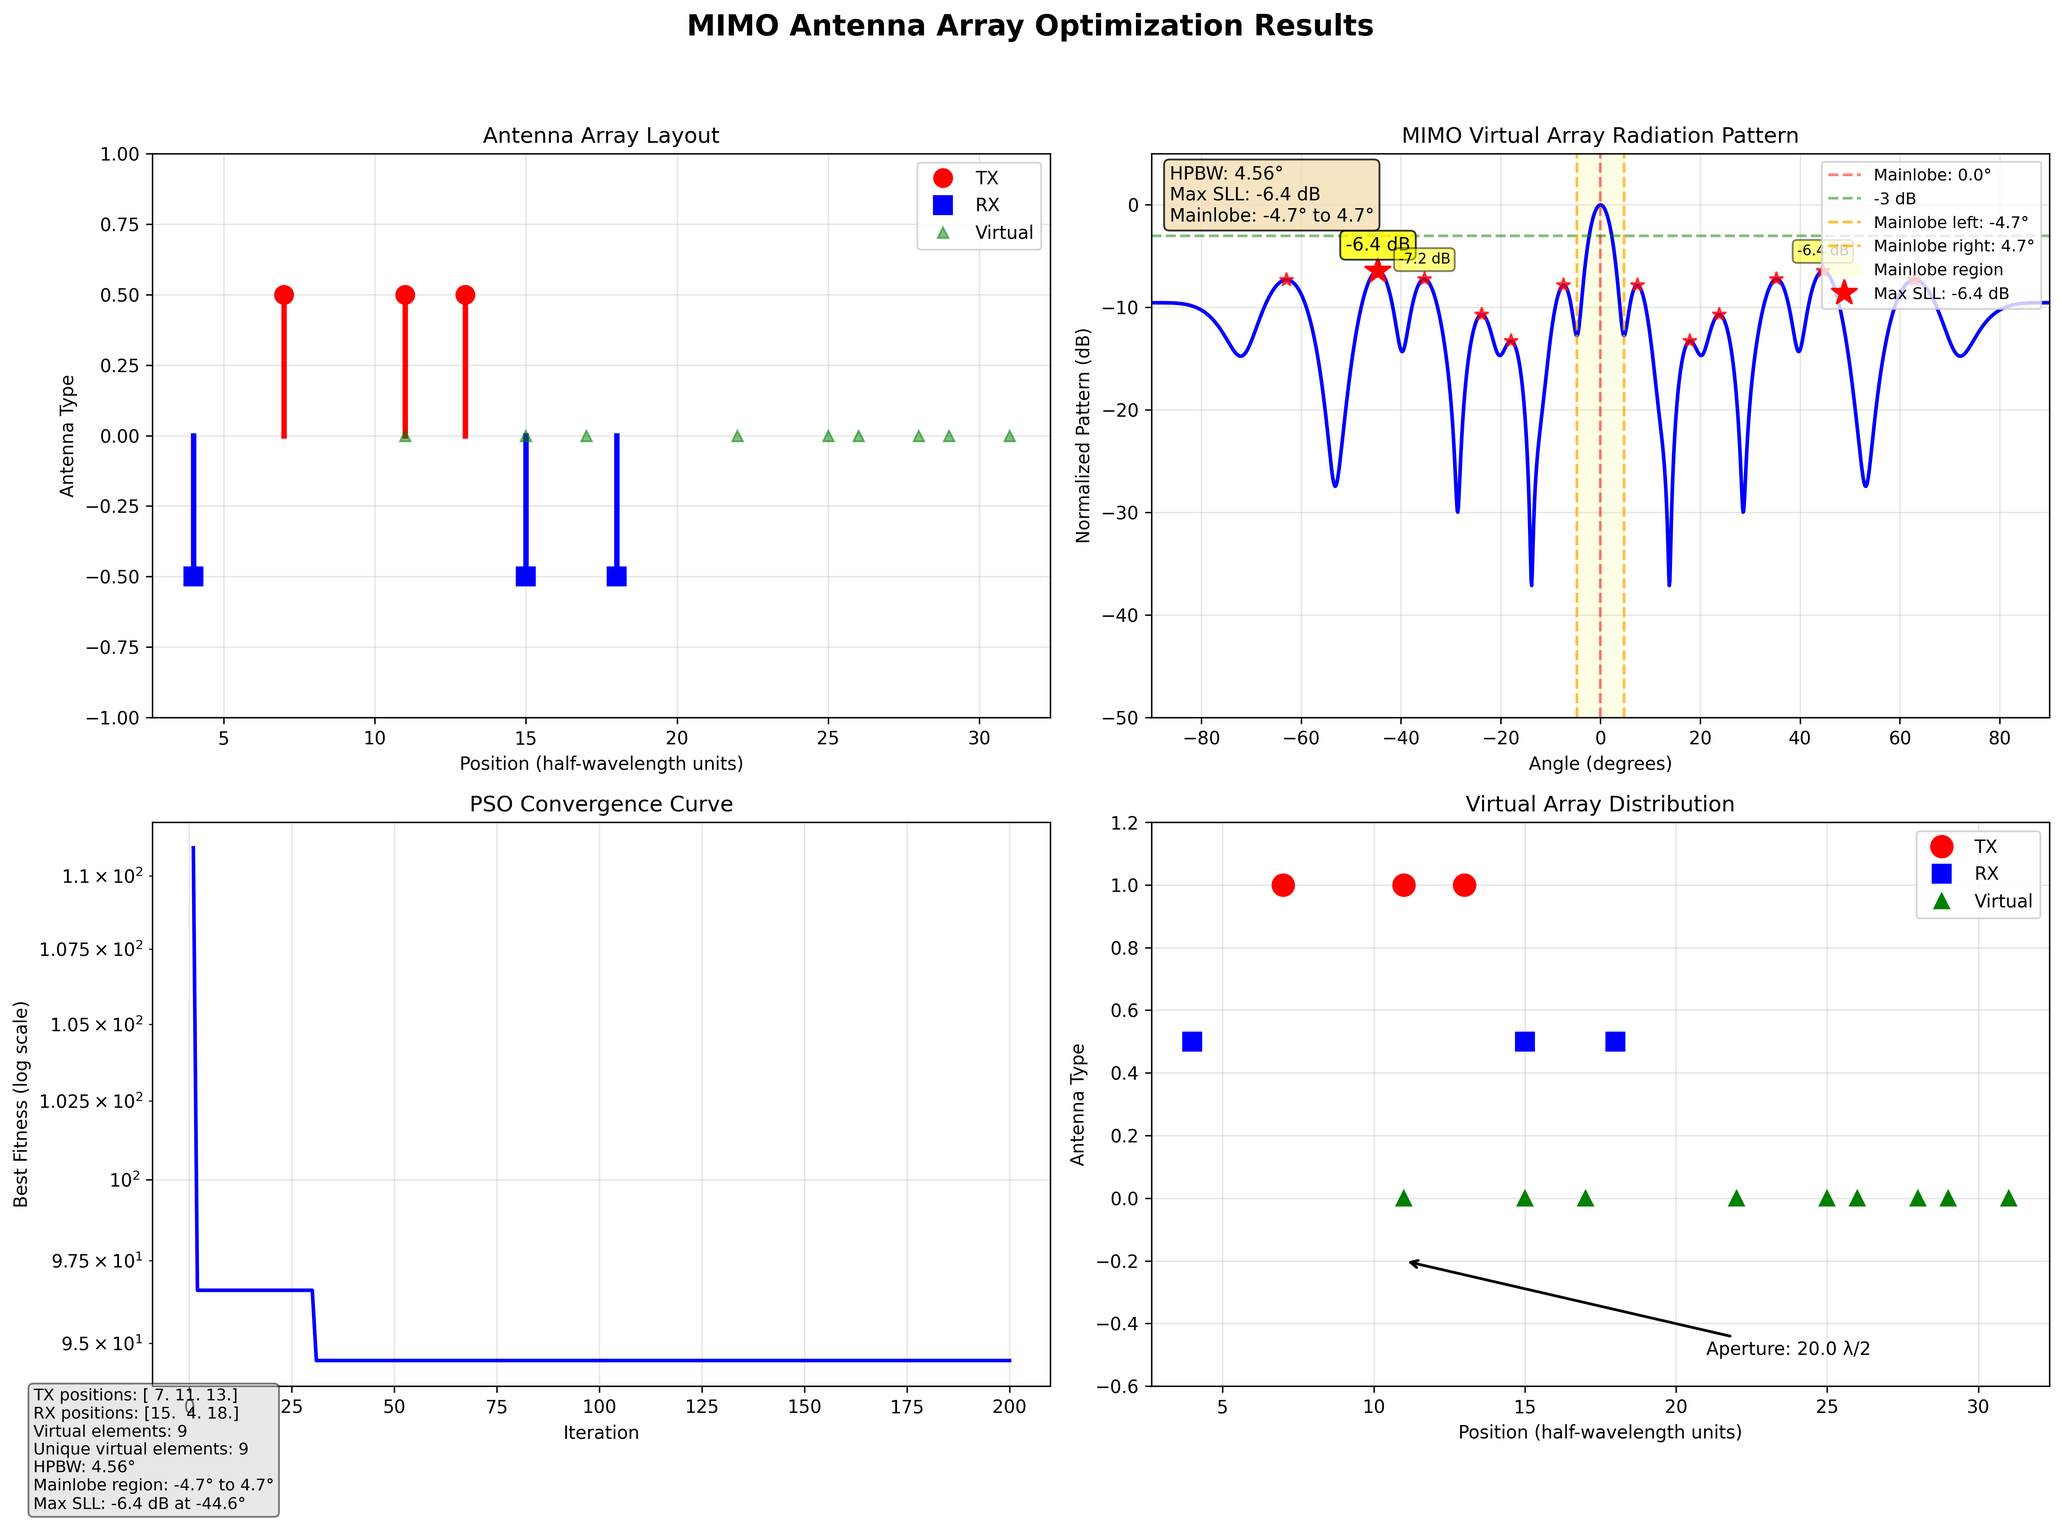
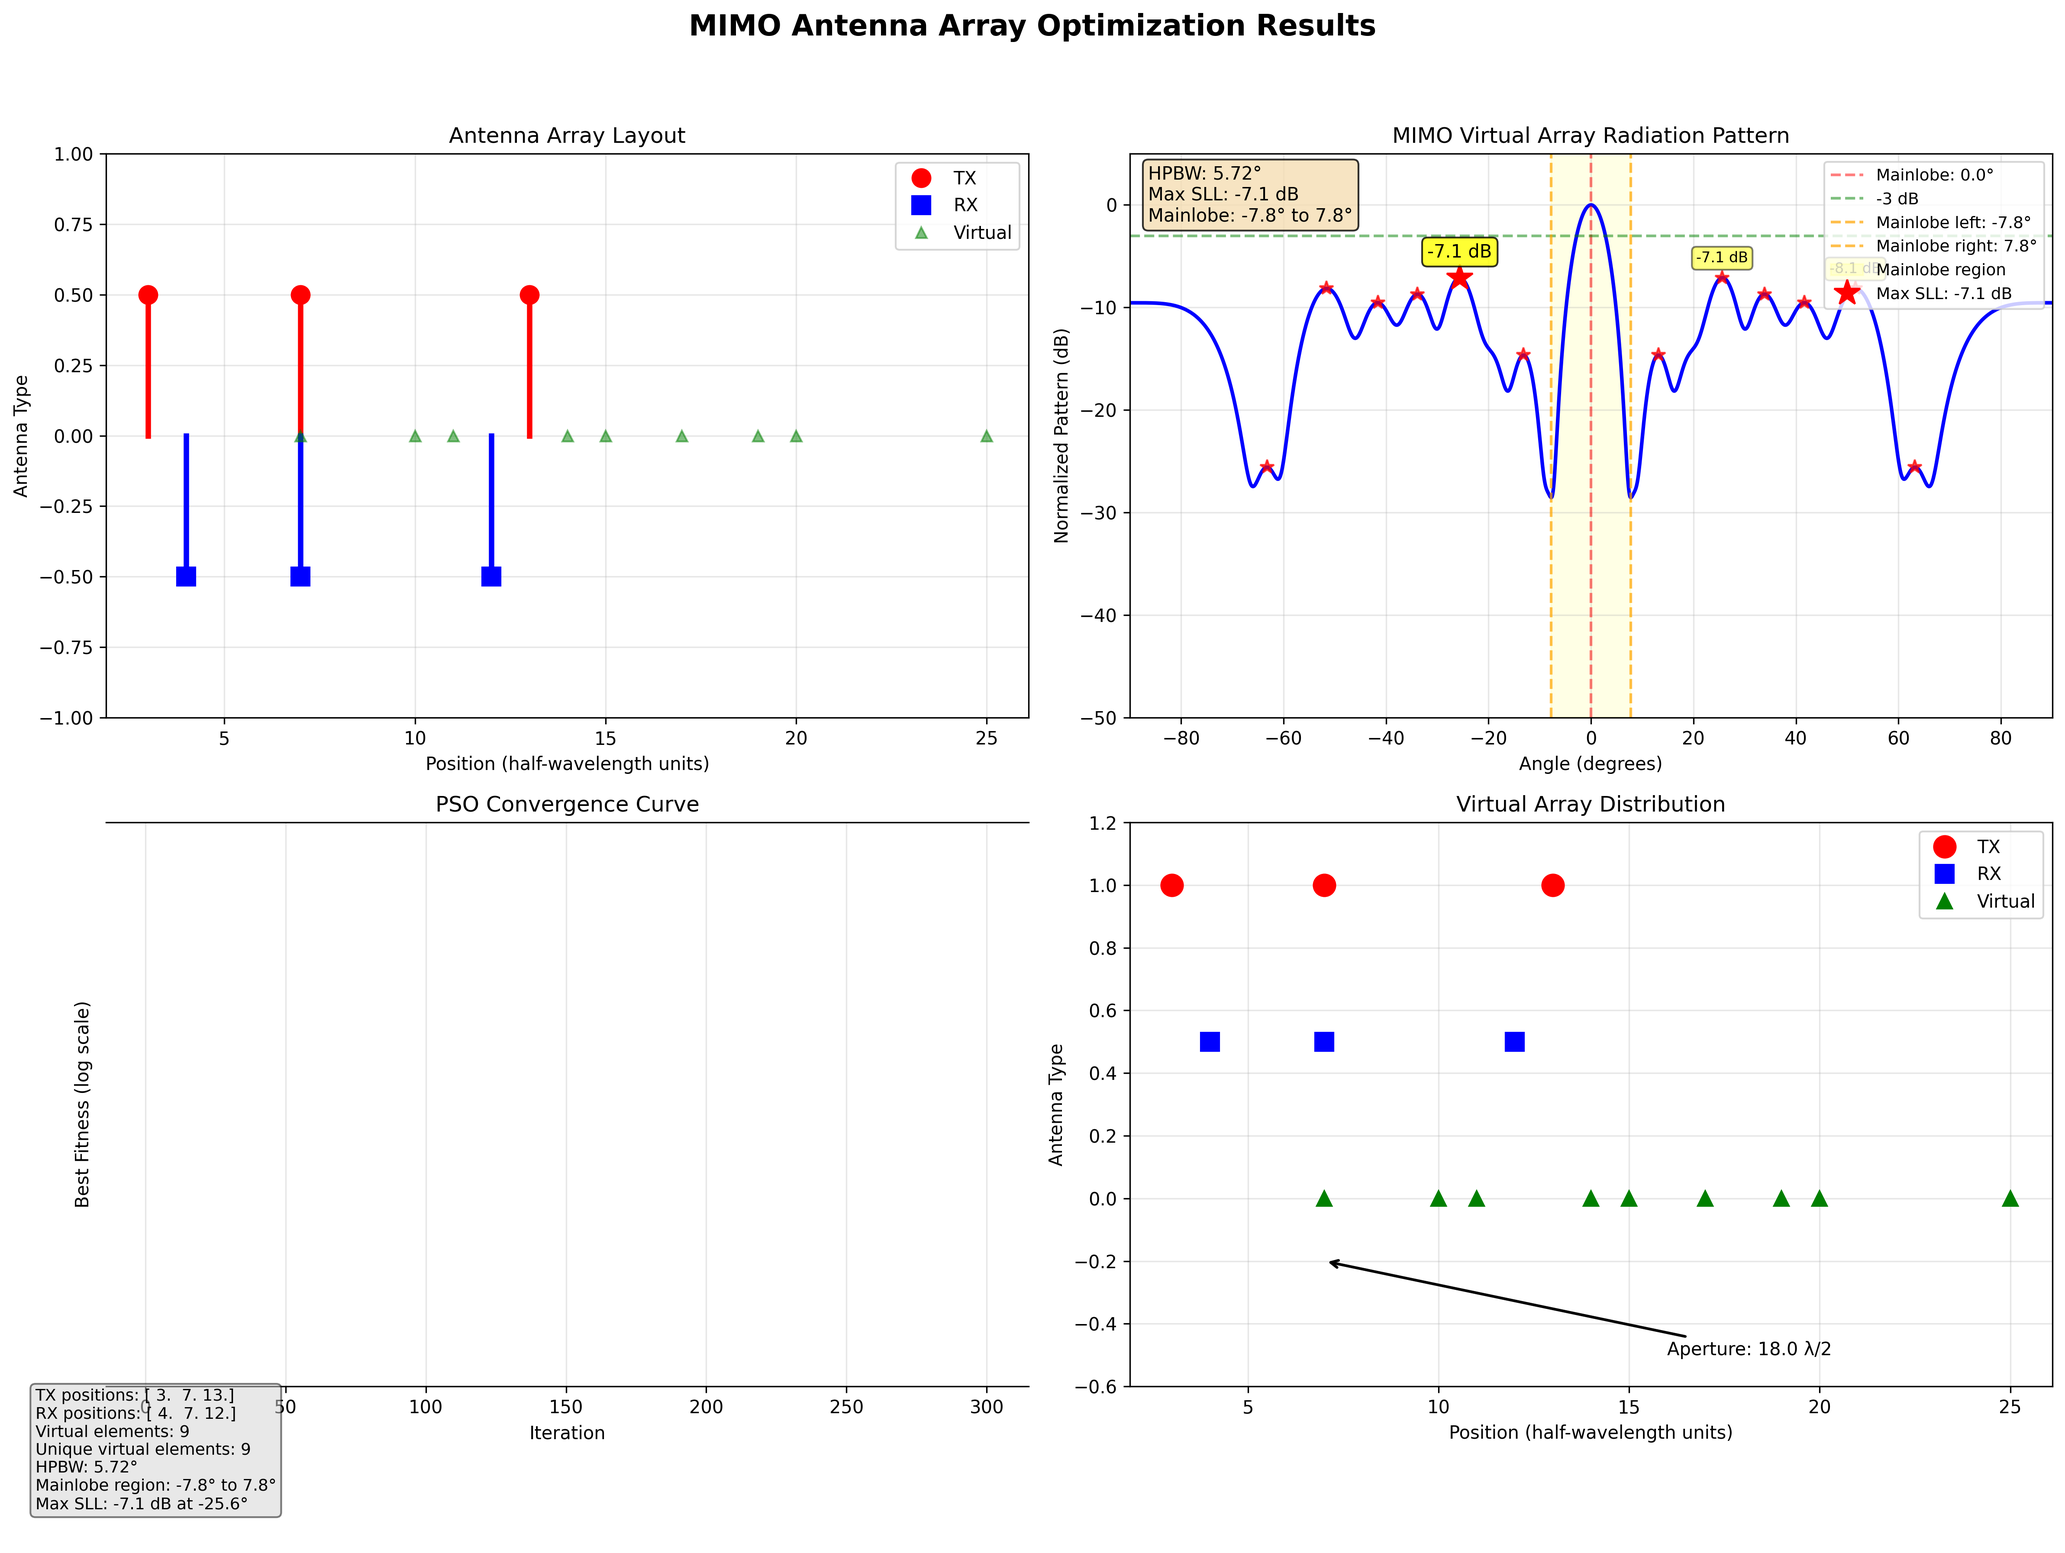
更新雷达方程计算

diff --git a/radar_distance.py b/radar_distance.py
@@ -1,0 +1,360 @@
+import numpy as np
+import matplotlib.pyplot as plt
+import math
+
+class FMCWRadar:
+    """FMCW Radar Detection Range Calculator (Latest Formula)"""
+    
+    def __init__(self):
+        """Initialize radar parameters"""
+        # Radar system parameters
+        self.pt_dbm = 12.0  # Transmit power, dBm
+        self.gain_tx_db = 20.0  # Transmit antenna gain, dB
+        self.gain_rx_db = 20.0  # Receive antenna gain, dB
+        self.freq_hz = 77.0e9  # Frequency, Hz
+        self.t_mod_s = 20.0e-6  # Modulation time, s
+        self.gs_db = 30.0  # Signal processing gain, dB
+        
+        # Environmental parameters
+        self.temp_k = 300.0  # Operating temperature, K
+        self.noise_figure_db = 12.0  # Receiver noise figure, dB
+        self.snr_min_db = 12.0  # Minimum detection SNR, dB
+        
+        # Target parameters
+        self.rcs_m2 = 0.01  # Target RCS, m²
+        
+        # Physical constants
+        self.c = 3.0e8  # Speed of light, m/s
+        self.k = 1.380649e-23  # Boltzmann constant, J/K
+        self.pi = math.pi
+    
+    def dbm_to_watt(self, dbm):
+        """Convert dBm to watts"""
+        return 1e-3 * 10**(dbm/10.0)
+    
+    def db_to_linear(self, db):
+        """Convert dB to linear value"""
+        return 10**(db/10.0)
+    
+    def calculate_wavelength(self):
+        """Calculate wavelength"""
+        return self.c / self.freq_hz
+    
+    def calculate_range(self, rcs=None):
+        """
+        Calculate detection range based on the latest radar equation
+        
+        Latest formula: R_max^4 = (P_t * G_t * G_r * λ^2 * σ * G_s * t_mod) / ((4π)^3 * k * T * F * (S/N)_{min})
+        
+        Parameters:
+        rcs: Target RCS, m². If None, use instance's rcs_m2
+        
+        Returns:
+        Detection range, meters
+        """
+        if rcs is None:
+            rcs = self.rcs_m2
+        
+        # Parameter conversion
+        pt_w = self.dbm_to_watt(self.pt_dbm)  # Transmit power, W
+        g_t = self.db_to_linear(self.gain_tx_db)  # Transmit antenna gain (linear)
+        g_r = self.db_to_linear(self.gain_rx_db)  # Receive antenna gain (linear)
+        wavelength = self.calculate_wavelength()  # Wavelength, m
+        t = self.temp_k  # Temperature, K
+        f_linear = self.db_to_linear(self.noise_figure_db)  # Noise figure (linear)
+        snr_min_linear = self.db_to_linear(self.snr_min_db)  # Minimum SNR (linear)
+        gs_linear = self.db_to_linear(self.gs_db)  # Signal processing gain (linear)
+        t_mod = self.t_mod_s  # Modulation time, s
+        
+        # Latest radar equation: R^4 = (Pt * G_t * G_r * λ^2 * σ * G_s * t_mod) / ((4π)^3 * k * T * F * SNR_min)
+        numerator = pt_w * g_t * g_r * wavelength**2 * rcs * gs_linear * t_mod
+        denominator = (4 * self.pi)**3 * self.k * t * f_linear * snr_min_linear
+        
+        if denominator <= 0:
+            return 0.0
+        
+        r4 = numerator / denominator
+        if r4 <= 0:
+            return 0.0
+            
+        range_m = r4**0.25  # R = (R^4)^(1/4)
+        return range_m
+    
+    def calculate_max_unambiguous_range(self):
+        """Calculate maximum unambiguous range"""
+        return self.c * self.t_mod_s / 2
+    
+    def print_parameters(self):
+        """Print radar parameters"""
+        pt_w = self.dbm_to_watt(self.pt_dbm)
+        wavelength = self.calculate_wavelength()
+        nf_linear = self.db_to_linear(self.noise_figure_db)
+        snr_min_linear = self.db_to_linear(self.snr_min_db)
+        gs_linear = self.db_to_linear(self.gs_db)
+        g_t_linear = self.db_to_linear(self.gain_tx_db)
+        g_r_linear = self.db_to_linear(self.gain_rx_db)
+        range_unamb = self.calculate_max_unambiguous_range()
+        range_m = self.calculate_range()
+        
+        print("=" * 90)
+        print("FMCW Radar Parameters Configuration Table (Latest Formula)")
+        print("=" * 90)
+        print(f"{'Parameter':<25} {'Value':<20} {'Unit':<15} {'Description'}")
+        print("-" * 90)
+        print(f"{'Target RCS (σ)':<25} {self.rcs_m2:<20.4f} {'m²':<15} Radar Cross Section")
+        print(f"{'Transmit Power (P_t)':<25} {self.pt_dbm:<20.1f} {'dBm':<15} Linear value: {pt_w:.3e} W")
+        print(f"{'Tx Antenna Gain (G_t)':<25} {self.gain_tx_db:<20.1f} {'dB':<15} Linear value: {g_t_linear:.3f}")
+        print(f"{'Rx Antenna Gain (G_r)':<25} {self.gain_rx_db:<20.1f} {'dB':<15} Linear value: {g_r_linear:.3f}")
+        print(f"{'Signal Processing Gain (G_s)':<25} {self.gs_db:<20.1f} {'dB':<15} Linear value: {gs_linear:.3f}")
+        print(f"{'Frequency (f)':<25} {self.freq_hz/1e9:<20.1f} {'GHz':<15} Wavelength: {wavelength*100:.3f} cm")
+        print(f"{'Modulation Time (T_mod)':<25} {self.t_mod_s*1e6:<20.1f} {'μs':<15} 20 μs")
+        print(f"{'Temperature (T)':<25} {self.temp_k:<20.0f} {'K':<15} Operating temperature")
+        print(f"{'Noise Figure (F)':<25} {self.noise_figure_db:<20.1f} {'dB':<15} Linear value: {nf_linear:.3f}")
+        print(f"{'Min SNR (S/N_min)':<25} {self.snr_min_db:<20.1f} {'dB':<15} Linear value: {snr_min_linear:.3f}")
+        print(f"{'Max Unambiguous Range':<25} {range_unamb:<20.1f} {'m':<15} R_unamb = c×T_mod/2")
+        print("-" * 90)
+        print(f"{'Estimated Detection Range':<25} {range_m:<20.2f} {'m':<15} About {range_m/1000:.2f} km")
+        print("=" * 90)
+        print()
+
+
+def plot_range_vs_rcs(radar, rcs_min=0.001, rcs_max=0.1, num_points=100):
+    """
+    Plot detection range vs RCS
+    """
+    # Generate RCS range
+    rcs_values = np.linspace(rcs_min, rcs_max, num_points)
+    range_values = np.zeros_like(rcs_values)
+    
+    # Calculate detection range for each RCS
+    for i, rcs in enumerate(rcs_values):
+        range_values[i] = radar.calculate_range(rcs)
+    
+    # Create figure
+    plt.figure(figsize=(12, 8))
+    
+    # Detection range vs RCS
+    ax1 = plt.subplot(2, 2, 1)
+    ax1.plot(rcs_values, range_values, 'b-', linewidth=2)
+    ax1.set_xlabel('Target RCS (m²)', fontsize=12)
+    ax1.set_ylabel('Detection Range (m)', fontsize=12)
+    ax1.set_title('Detection Range vs Target RCS', fontsize=14, fontweight='bold')
+    ax1.grid(True, alpha=0.3)
+    ax1.tick_params(axis='both', which='major', labelsize=10)
+    
+    # Mark current configuration point
+    current_range = radar.calculate_range(radar.rcs_m2)
+    ax1.plot(radar.rcs_m2, current_range, 'ro', markersize=10, 
+             label=f'RCS={radar.rcs_m2} m²\nR={current_range:.1f} m')
+    ax1.legend(fontsize=10)
+    
+    # Detection range vs RCS (log-log scale)
+    ax2 = plt.subplot(2, 2, 2)
+    ax2.loglog(rcs_values, range_values, 'r-', linewidth=2)
+    ax2.set_xlabel('Target RCS (m²)', fontsize=12)
+    ax2.set_ylabel('Detection Range (m)', fontsize=12)
+    ax2.set_title('Detection Range vs Target RCS (Log-Log Scale)', fontsize=14, fontweight='bold')
+    ax2.grid(True, alpha=0.3, which='both')
+    ax2.tick_params(axis='both', which='major', labelsize=10)
+    
+    # Range vs modulation time
+    ax3 = plt.subplot(2, 2, 3)
+    t_mod_values = np.linspace(1, 100, 50)  # 1 to 100 μs
+    range_vs_t_mod = np.zeros_like(t_mod_values)
+    
+    for i, t_mod in enumerate(t_mod_values):
+        radar_temp = FMCWRadar()
+        radar_temp.t_mod_s = t_mod * 1e-6
+        range_vs_t_mod[i] = radar_temp.calculate_range()
+    
+    ax3.plot(t_mod_values, range_vs_t_mod, 'g-', linewidth=2)
+    ax3.set_xlabel('Modulation Time T_mod (μs)', fontsize=12)
+    ax3.set_ylabel('Detection Range (m)', fontsize=12)
+    ax3.set_title('Detection Range vs Modulation Time', fontsize=14, fontweight='bold')
+    ax3.grid(True, alpha=0.3)
+    ax3.tick_params(axis='both', which='major', labelsize=10)
+    current_t_mod = radar.t_mod_s * 1e6
+    ax3.plot(current_t_mod, current_range, 'ro', markersize=10)
+    
+    # Range vs antenna gain (assuming G_t = G_r)
+    ax4 = plt.subplot(2, 2, 4)
+    gain_values = np.linspace(0, 30, 50)  # 0 to 30 dB
+    range_vs_gain = np.zeros_like(gain_values)
+    
+    for i, gain in enumerate(gain_values):
+        radar_temp = FMCWRadar()
+        radar_temp.gain_tx_db = gain
+        radar_temp.gain_rx_db = gain
+        range_vs_gain[i] = radar_temp.calculate_range()
+    
+    ax4.plot(gain_values, range_vs_gain, 'm-', linewidth=2, label='Detection Range')
+    ax4.set_xlabel('Antenna Gain (dB, G_t = G_r)', fontsize=12)
+    ax4.set_ylabel('Detection Range (m)', fontsize=12)
+    ax4.set_title('Detection Range vs Antenna Gain', fontsize=14, fontweight='bold')
+    ax4.grid(True, alpha=0.3)
+    ax4.tick_params(axis='both', which='major', labelsize=10)
+    ax4.plot(radar.gain_tx_db, current_range, 'ro', markersize=10)
+    
+    plt.tight_layout()
+    plt.show()
+    
+    return rcs_values, range_values
+
+
+def plot_range_vs_processing_gain_and_power(radar):
+    """Plot detection range vs signal processing gain and transmit power"""
+    fig, (ax1, ax2) = plt.subplots(1, 2, figsize=(14, 6))
+    
+    # Range vs signal processing gain
+    gs_values = np.linspace(0, 50, 51)  # 0 to 50 dB
+    range_vs_gs = np.zeros_like(gs_values)
+    
+    for i, gs in enumerate(gs_values):
+        radar_temp = FMCWRadar()
+        radar_temp.gs_db = gs
+        range_vs_gs[i] = radar_temp.calculate_range()
+    
+    ax1.plot(gs_values, range_vs_gs, 'b-', linewidth=2)
+    ax1.set_xlabel('Signal Processing Gain G_s (dB)', fontsize=12)
+    ax1.set_ylabel('Detection Range (m)', fontsize=12)
+    ax1.set_title('Detection Range vs Signal Processing Gain', fontsize=14, fontweight='bold')
+    ax1.grid(True, alpha=0.3)
+    ax1.axvline(x=radar.gs_db, color='r', linestyle='--', alpha=0.7, 
+                label=f'Current G_s: {radar.gs_db} dB')
+    ax1.legend(fontsize=10)
+    
+    # Range vs transmit power
+    power_values = np.linspace(-20, 20, 41)  # -20 to 20 dBm
+    range_vs_power = np.zeros_like(power_values)
+    
+    for i, power in enumerate(power_values):
+        radar_temp = FMCWRadar()
+        radar_temp.pt_dbm = power
+        range_vs_power[i] = radar_temp.calculate_range()
+    
+    ax2.plot(power_values, range_vs_power, 'g-', linewidth=2)
+    ax2.set_xlabel('Transmit Power (dBm)', fontsize=12)
+    ax2.set_ylabel('Detection Range (m)', fontsize=12)
+    ax2.set_title('Detection Range vs Transmit Power', fontsize=14, fontweight='bold')
+    ax2.grid(True, alpha=0.3)
+    ax2.axvline(x=radar.pt_dbm, color='r', linestyle='--', alpha=0.7, 
+                label=f'Current Power: {radar.pt_dbm} dBm')
+    ax2.legend(fontsize=10)
+    
+    plt.tight_layout()
+    plt.show()
+
+
+def plot_range_vs_frequency_and_snr(radar):
+    """Plot detection range vs frequency and SNR"""
+    fig, (ax1, ax2) = plt.subplots(1, 2, figsize=(14, 6))
+    
+    # Range vs frequency
+    freq_values = np.linspace(24, 120, 50)  # 24 to 120 GHz
+    range_vs_freq = np.zeros_like(freq_values)
+    
+    for i, freq in enumerate(freq_values):
+        radar_temp = FMCWRadar()
+        radar_temp.freq_hz = freq * 1e9
+        range_vs_freq[i] = radar_temp.calculate_range()
+    
+    ax1.plot(freq_values, range_vs_freq, 'b-', linewidth=2)
+    ax1.set_xlabel('Frequency (GHz)', fontsize=12)
+    ax1.set_ylabel('Detection Range (m)', fontsize=12)
+    ax1.set_title('Detection Range vs Frequency', fontsize=14, fontweight='bold')
+    ax1.grid(True, alpha=0.3)
+    ax1.axvline(x=radar.freq_hz/1e9, color='r', linestyle='--', alpha=0.7, 
+                label=f'Current freq: {radar.freq_hz/1e9:.1f} GHz')
+    ax1.legend(fontsize=10)
+    
+    # Range vs minimum SNR
+    snr_values = np.linspace(0, 20, 41)  # 0 to 20 dB
+    range_vs_snr = np.zeros_like(snr_values)
+    
+    for i, snr in enumerate(snr_values):
+        radar_temp = FMCWRadar()
+        radar_temp.snr_min_db = snr
+        range_vs_snr[i] = radar_temp.calculate_range()
+    
+    ax2.plot(snr_values, range_vs_snr, 'g-', linewidth=2)
+    ax2.set_xlabel('Minimum SNR (dB)', fontsize=12)
+    ax2.set_ylabel('Detection Range (m)', fontsize=12)
+    ax2.set_title('Detection Range vs Minimum SNR', fontsize=14, fontweight='bold')
+    ax2.grid(True, alpha=0.3)
+    ax2.axvline(x=radar.snr_min_db, color='r', linestyle='--', alpha=0.7, 
+                label=f'Current SNR_min: {radar.snr_min_db} dB')
+    ax2.legend(fontsize=10)
+    
+    plt.tight_layout()
+    plt.show()
+
+
+def main():
+    """Main function"""
+    print("FMCW Radar Detection Range Calculator (Latest Formula)")
+    print("=" * 60)
+    print("Latest Formula: R_max^4 = (P_t * G_t * G_r * λ^2 * σ * G_s * t_mod) / ((4π)^3 * k * T * F * (S/N)_{min})")
+    print("=" * 60)
+    
+    # Create radar instance
+    radar = FMCWRadar()
+    
+    # Print parameters
+    radar.print_parameters()
+    
+    # Plot detection range vs RCS
+    print("Generating Detection Range vs RCS plot...")
+    plot_range_vs_rcs(radar)
+    
+    # Plot detection range vs signal processing gain and transmit power
+    print("Generating Detection Range vs Signal Processing Gain and Transmit Power plot...")
+    plot_range_vs_processing_gain_and_power(radar)
+    
+    # Plot detection range vs frequency and SNR
+    print("Generating Detection Range vs Frequency and SNR plot...")
+    plot_range_vs_frequency_and_snr(radar)
+    
+    # Calculate detection range for different RCS values
+    print("\nDetection Range Examples for Different RCS:")
+    print("-" * 60)
+    rcs_examples = [0.001, 0.005, 0.01, 0.05, 0.1, 0.5, 1.0]  # m²
+    
+    for rcs in rcs_examples:
+        distance = radar.calculate_range(rcs)
+        print(f"RCS = {rcs:6.3f} m²: Detection Range = {distance:8.2f} m ({distance/1000:6.2f} km)")
+    
+    # Parameter sensitivity analysis
+    print("\nParameter Sensitivity Analysis:")
+    print("-" * 60)
+    
+    # Test different signal processing gains
+    test_gs = [0, 10, 20, 30, 40, 50]  # dB
+    print("\nDetection Range for Different Signal Processing Gains:")
+    for gs in test_gs:
+        radar_temp = FMCWRadar()
+        radar_temp.gs_db = gs
+        distance = radar_temp.calculate_range()
+        print(f"G_s = {gs:2d} dB: Detection Range = {distance:7.2f} m")
+    
+    # Test different antenna gains
+    test_gain = [0, 10, 20, 30]  # dB
+    print("\nDetection Range for Different Antenna Gains (G_t = G_r):")
+    for gain in test_gain:
+        radar_temp = FMCWRadar()
+        radar_temp.gain_tx_db = gain
+        radar_temp.gain_rx_db = gain
+        distance = radar_temp.calculate_range()
+        print(f"G_t = G_r = {gain:2d} dB: Detection Range = {distance:7.2f} m")
+    
+    # Test different modulation times
+    test_t_mod = [10, 20, 50, 100]  # μs
+    print("\nDetection Range for Different Modulation Times:")
+    for t_mod in test_t_mod:
+        radar_temp = FMCWRadar()
+        radar_temp.t_mod_s = t_mod * 1e-6
+        distance = radar_temp.calculate_range()
+        print(f"T_mod = {t_mod:3d} μs: Detection Range = {distance:7.2f} m")
+
+
+if __name__ == "__main__":
+    main()

diff --git a/antenna_mimo_pso.py b/antenna_mimo_pso.py
@@ -720,7 +720,7 @@ def main():
     mimo_array = MIMOAntennaArray(
         num_tx=3,
         num_rx=4,
-        virtual_aperture=20,
+        virtual_aperture=18,
         target_hpbw=4.0
     )
     
@@ -728,7 +728,7 @@ def main():
     pso_optimizer = PSOOptimizer(
         antenna_array=mimo_array,
         num_particles=50,
-        max_iter=200
+        max_iter=300
     )
     
     # Execute optimization
